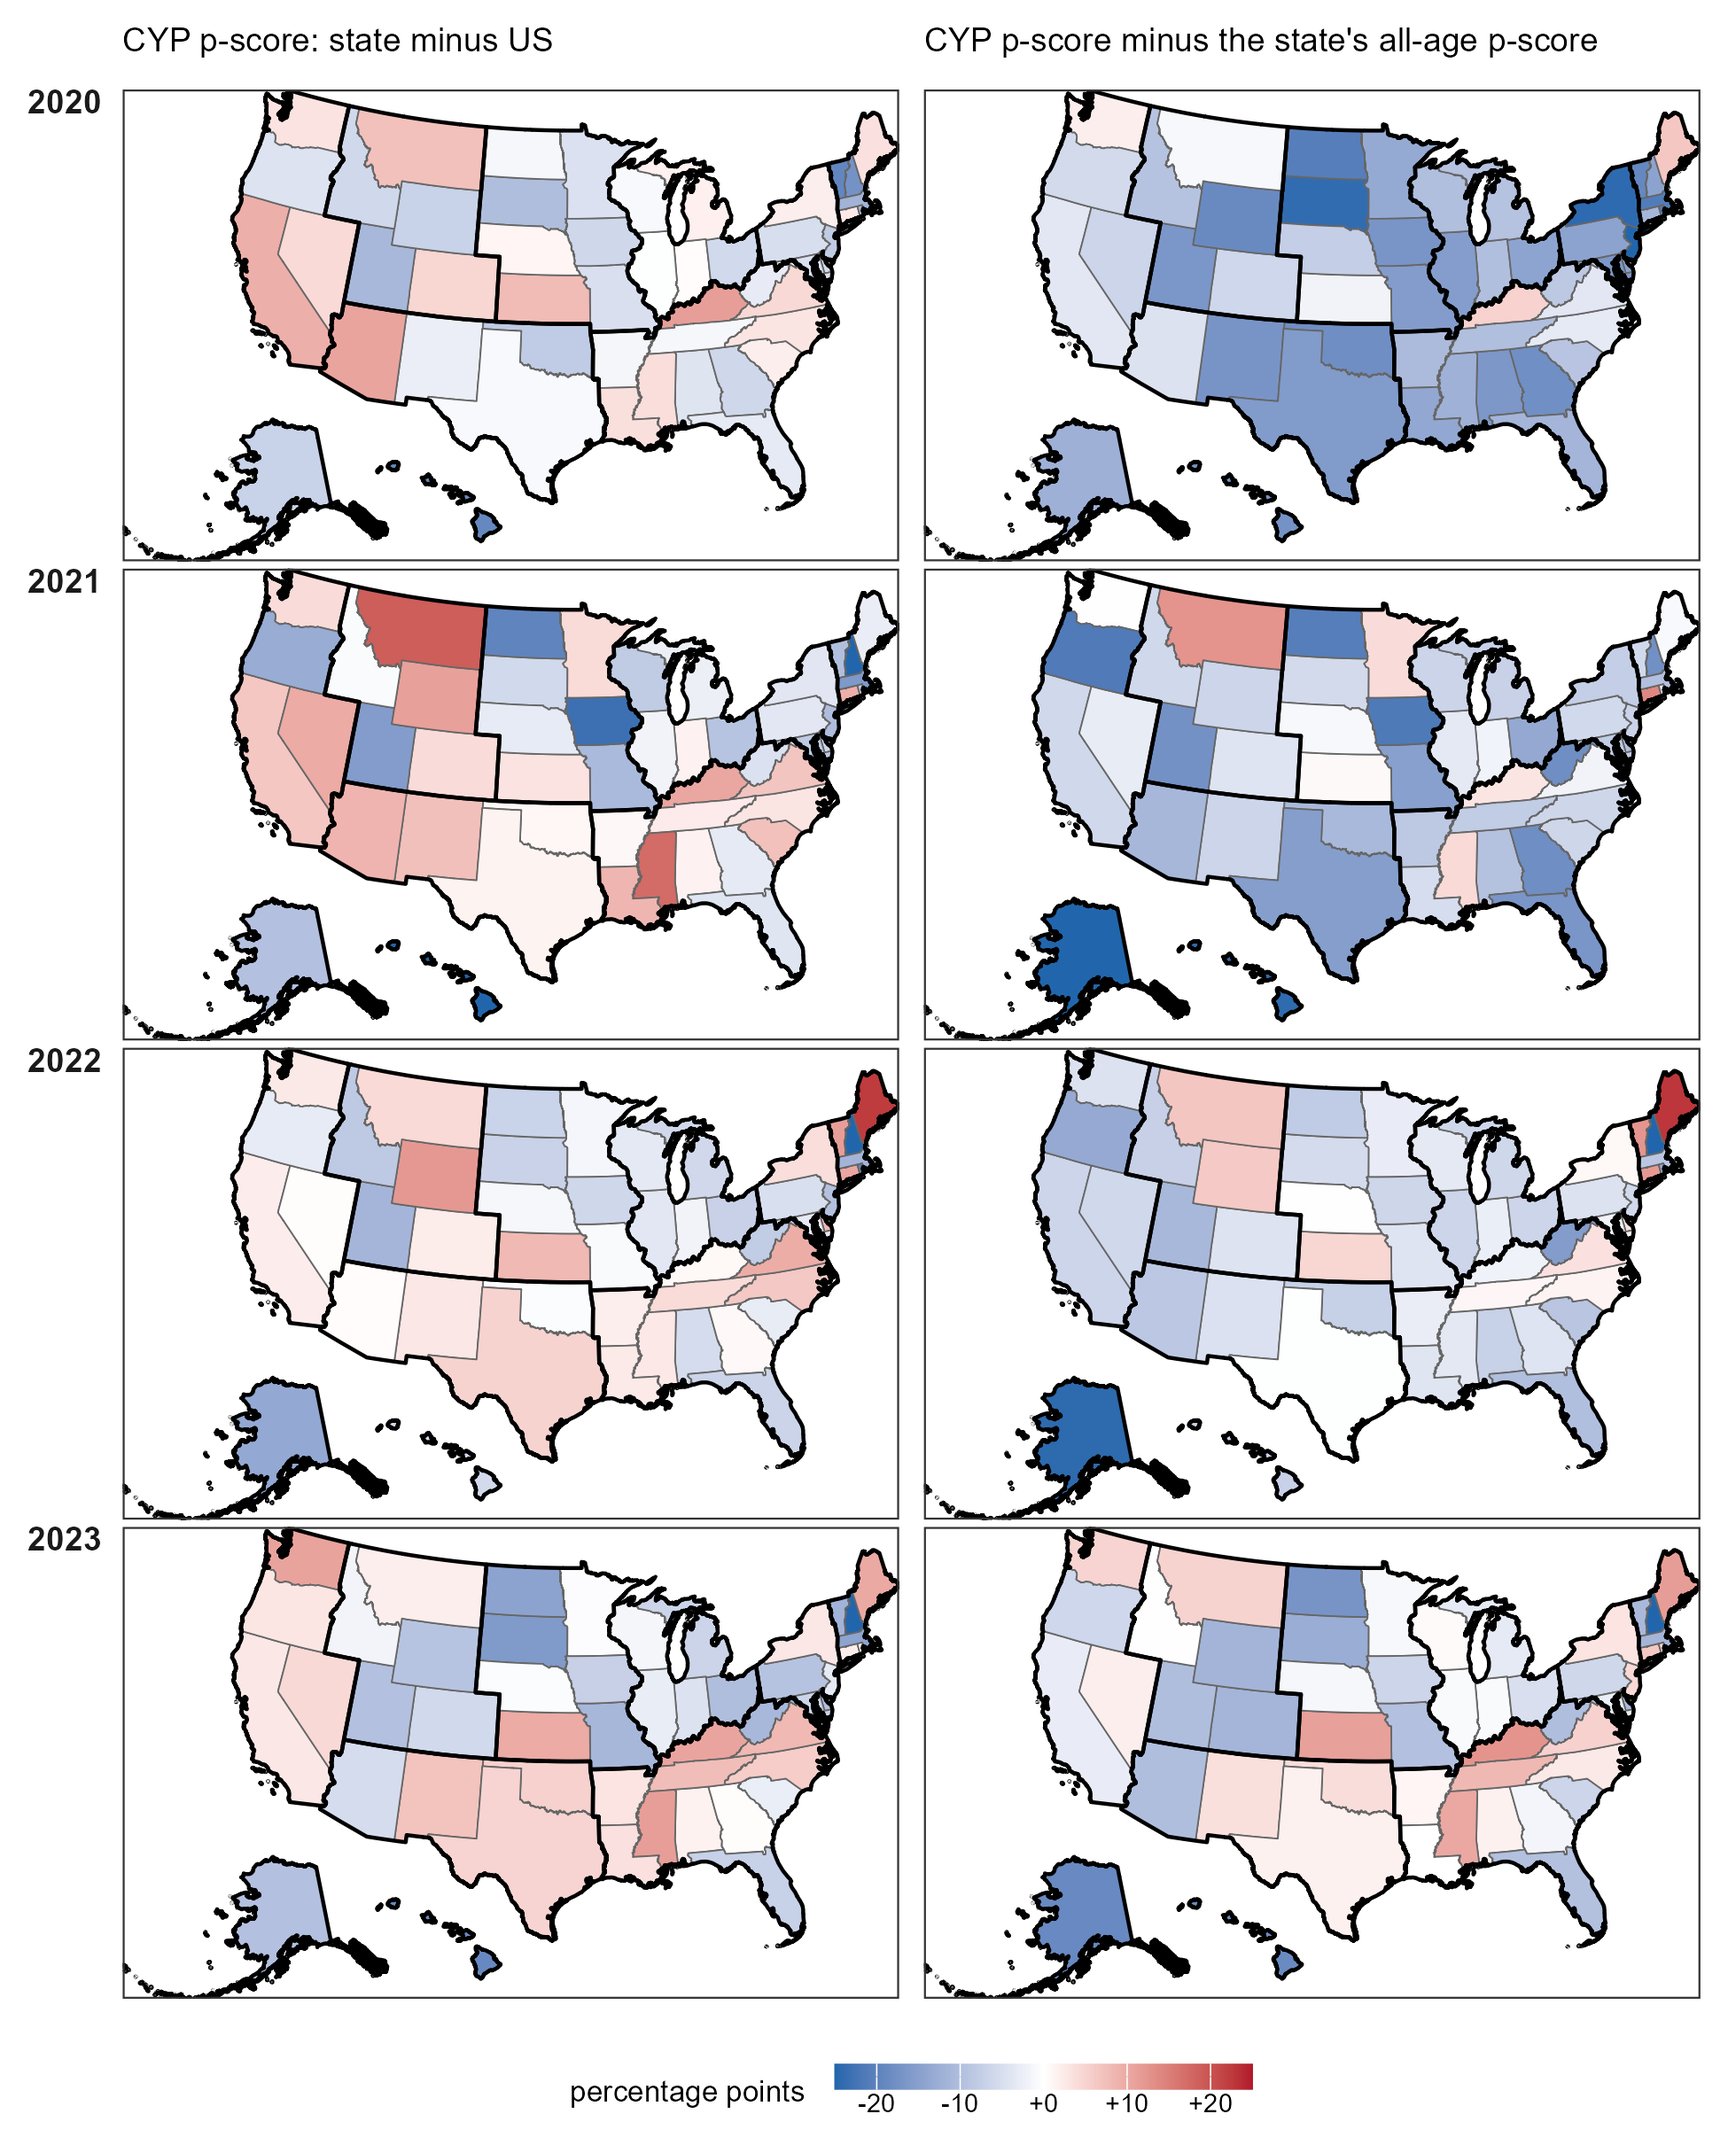
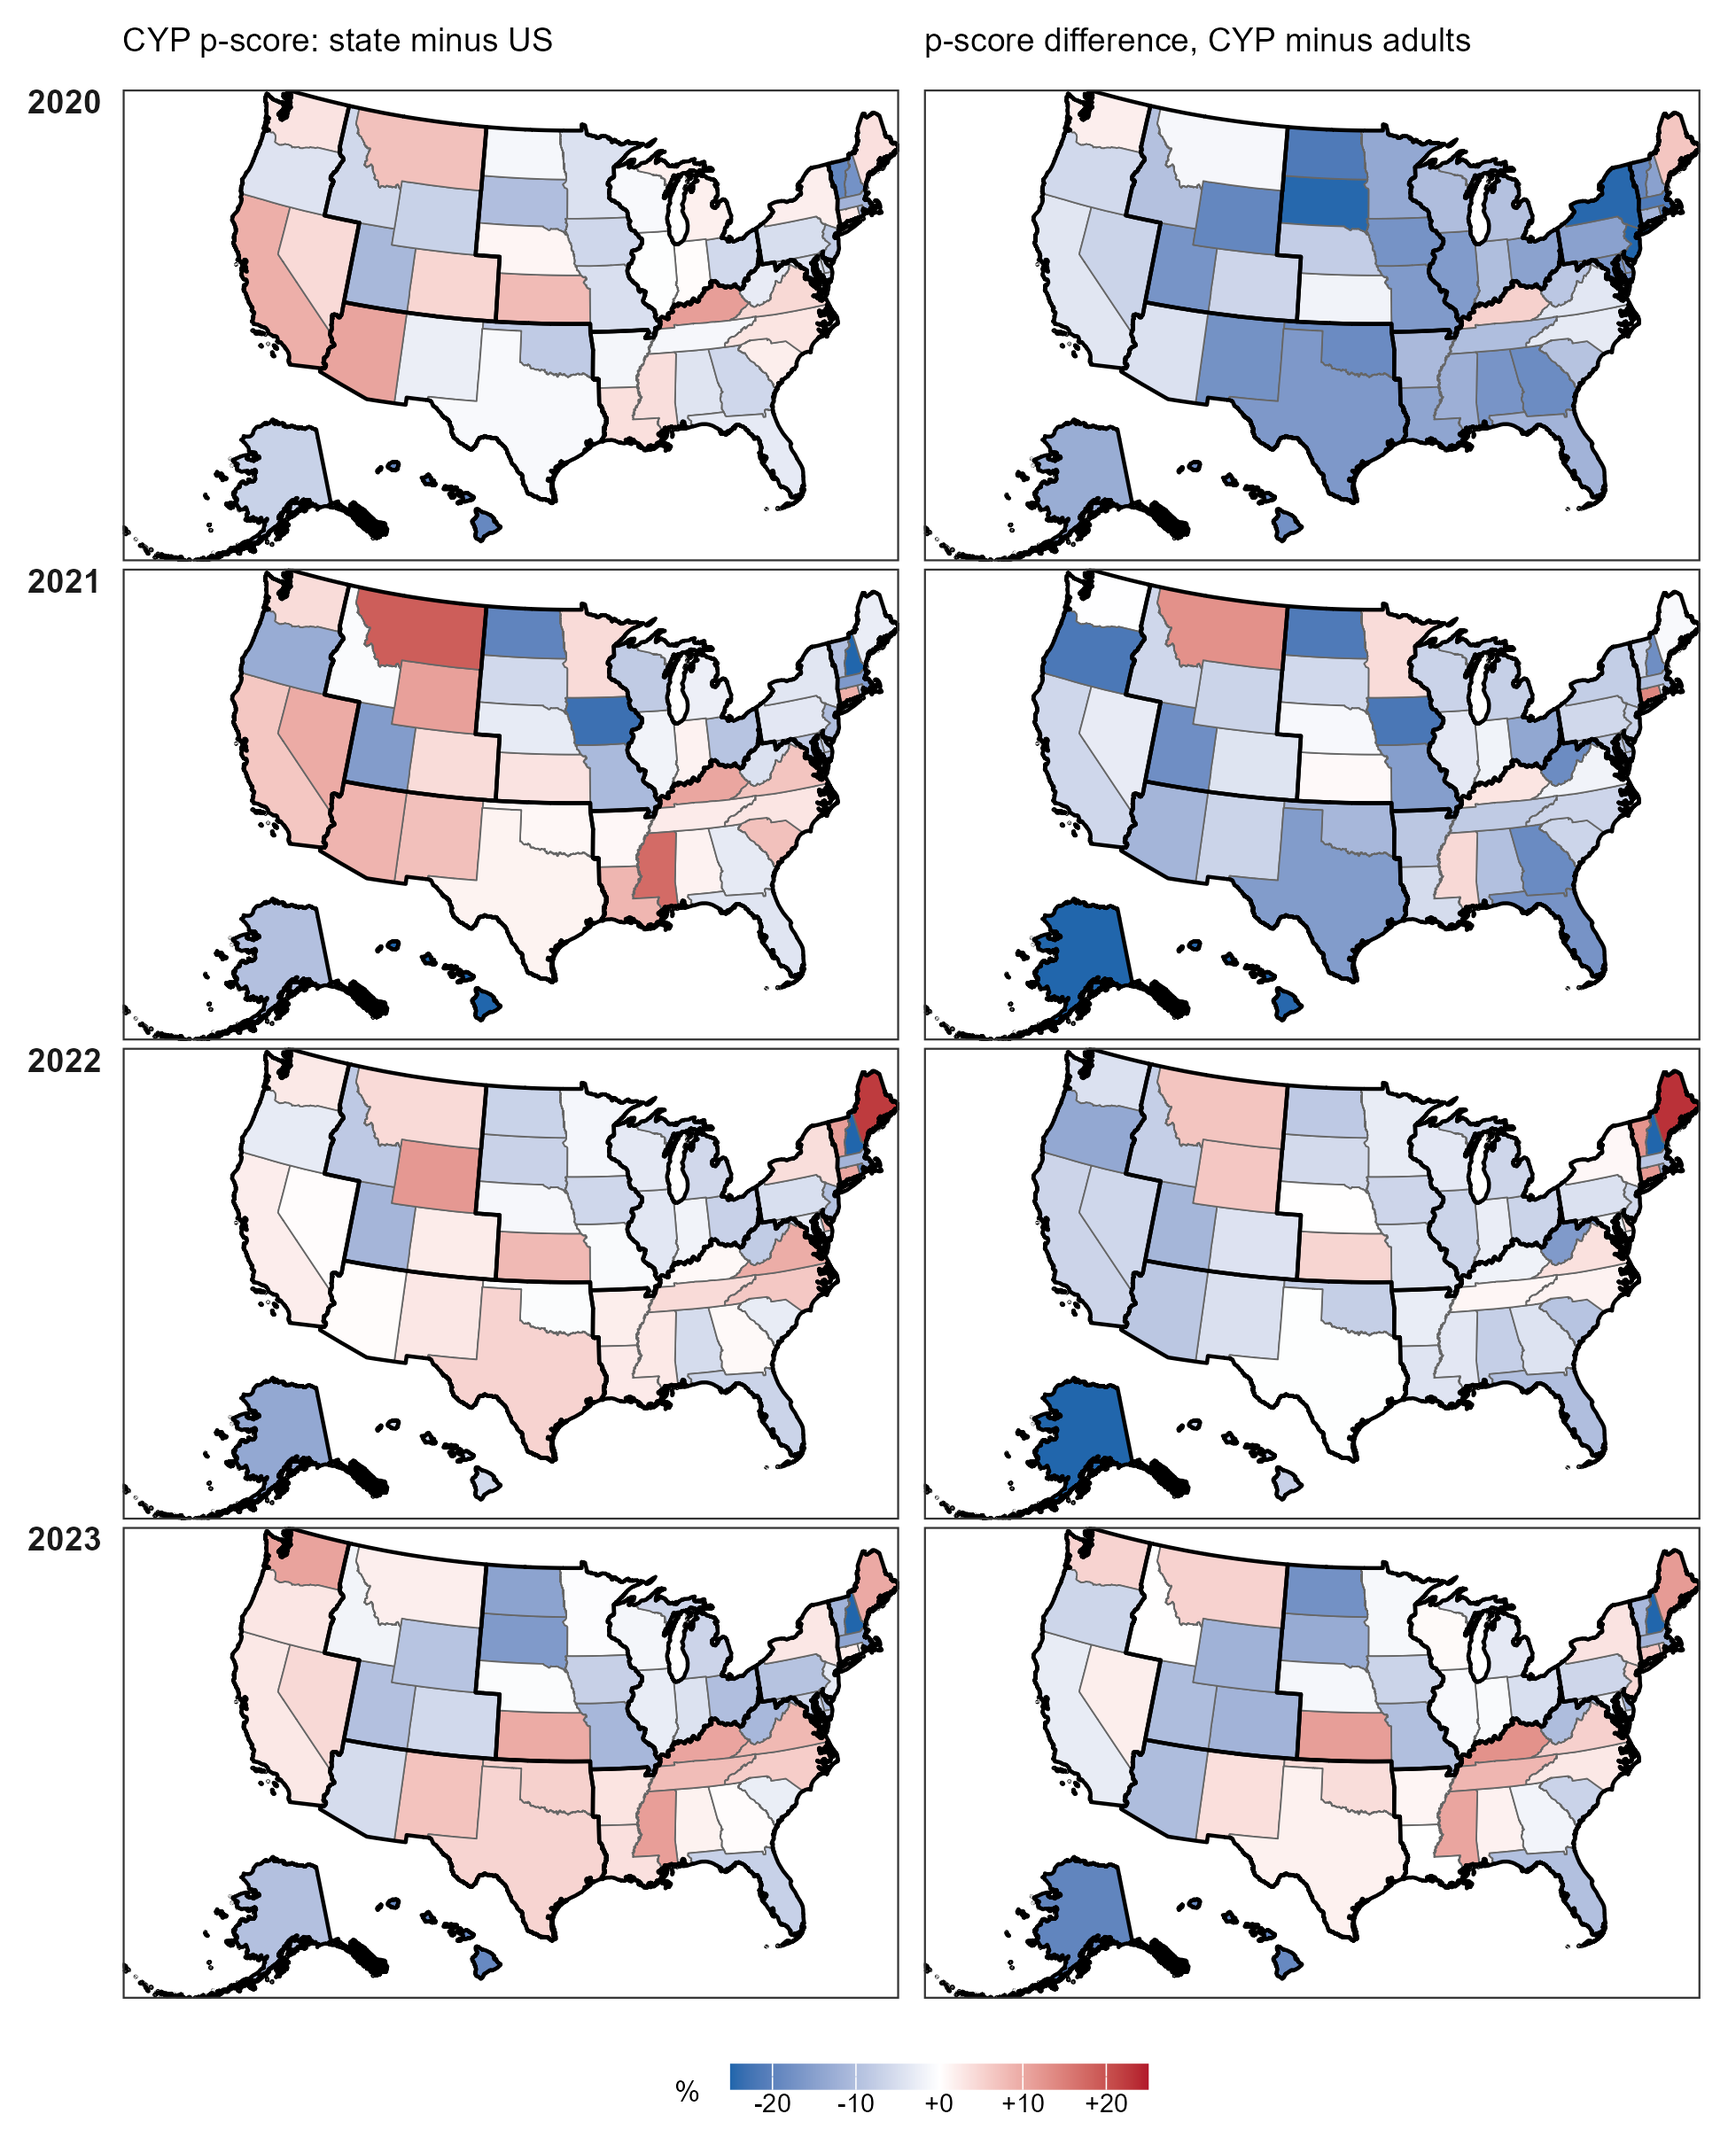
Figure 2 alternative B: second column is CYP minus adults, as in A

Changed region(s): [[0.3385, 0.9603, 0.7385, 0.9913], [0.5538, 0.0, 0.9231, 0.031]]

diff --git a/README.md b/README.md
@@ -34,7 +34,7 @@ Developed with R 4.6.1 on Windows; package versions are pinned in `renv.lock`.
 | `code/11_cyp_vs_all_ages_by_state.R` | `data_inter/cyp_vs_all_ages_by_state.rds`, `tables/tableS1_pscores_cyp_share_by_state.csv` | age-standardised p-scores by state for CYP, adults and all ages; CYP share of excess and of COVID-19 deaths; CYP p-score split into direct and indirect (Table S1; mapped by `alt_fig2_maps_by_state.R`) |
 | `code/alt_00_map_helpers.R` | — | map theme and drawing functions shared by the alternative maps |
 | `code/alt_fig1_by_age.R` | `figures/alternatives/fig1_altA_pscore_by_age.png`, `fig1_altB_total_direct_indirect_by_age.png` (+ `.csv`) | alternative versions of Figure 1: A, points (rates, p-scores on a log ratio axis, COVID-19/excess with its interval); B, total, direct (COVID-19 / expected) and indirect ((excess − COVID-19) / expected) p-scores by age plus stacked direct/indirect rates |
-| `code/alt_fig2_maps_by_state.R` | `figures/alternatives/fig2_altA_pscores_by_state.png`, `fig2_altB_cyp_pscore_diff_by_state.png`, `fig2_altC_cyp_share_by_state.png`, `fig2_altD_cyp_pscore_direct_indirect_by_state.png`, `fig2_altE_cyp_share_by_state_common_scale.png` | alternative versions of Figure 2: A, CYP and adult p-scores and their difference (CYP minus adults); B, CYP p-score minus US and minus all ages; C, CYP share of excess deaths, of COVID-19 deaths and of indirect excess; D, CYP p-score split into total, direct and indirect; E, as C on one common colour scale |
+| `code/alt_fig2_maps_by_state.R` | `figures/alternatives/fig2_altA_pscores_by_state.png`, `fig2_altB_cyp_pscore_diff_by_state.png`, `fig2_altC_cyp_share_by_state.png`, `fig2_altD_cyp_pscore_direct_indirect_by_state.png`, `fig2_altE_cyp_share_by_state_common_scale.png` | alternative versions of Figure 2: A, CYP and adult p-scores and their difference (CYP minus adults); B, CYP p-score minus US and minus adults; C, CYP share of excess deaths, of COVID-19 deaths and of indirect excess; D, CYP p-score split into total, direct and indirect; E, as C on one common colour scale |
 | `code/12_explore_race_pscores.R` (exploratory, not in `run_all.R`) | `figures/alternatives/figR1_pscore_excess_by_race.png`, `figR2_pscore_by_race_age.png`, `figR3_direct_indirect_by_race.png` (+ `.csv`) | p-scores and excess rates by race/ethnicity, 0–24; needs `data_input/all_cause_race/` (WONDER API, see its README) |
 
 Every figure is accompanied by a `.csv` with the plotted values. `data_inter/` is fully regenerated by scripts 01–04 but the (small) files are committed so that figures can be redrawn without rerunning the models.
